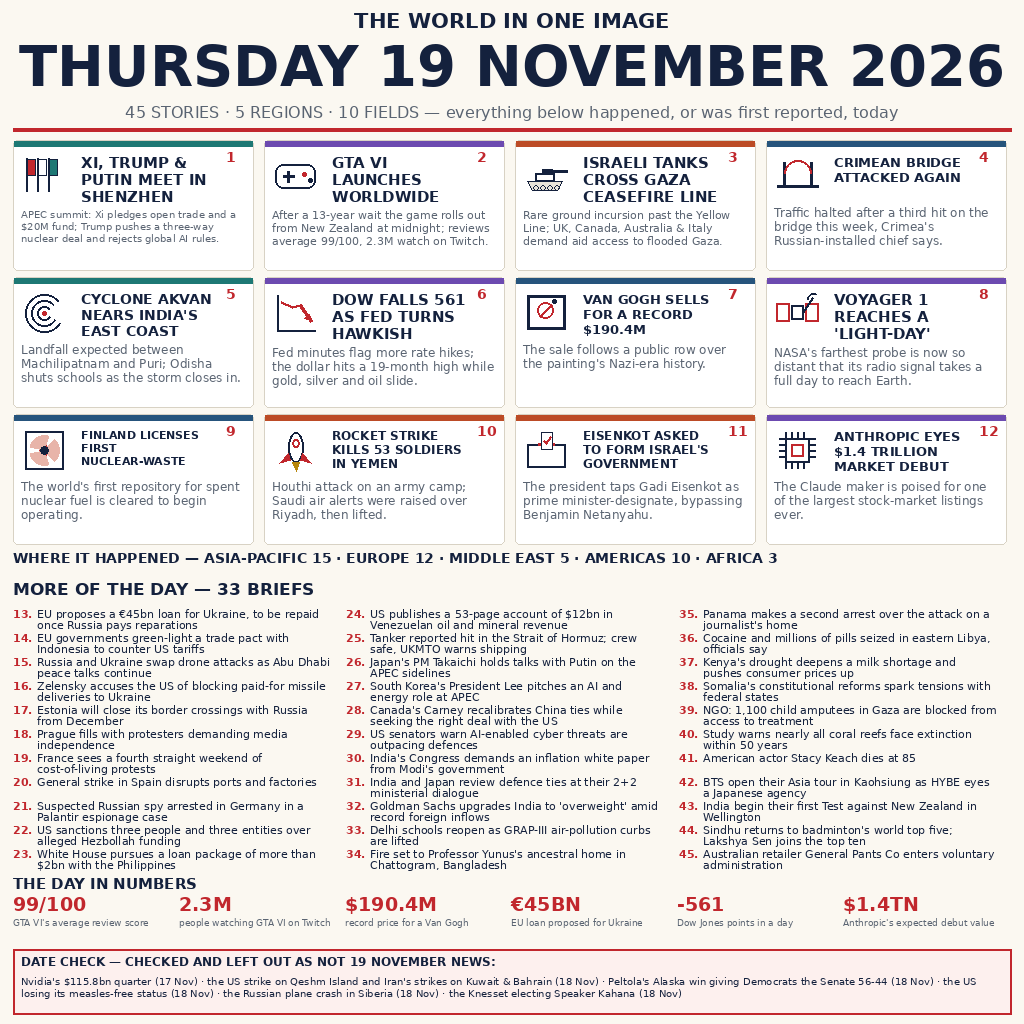
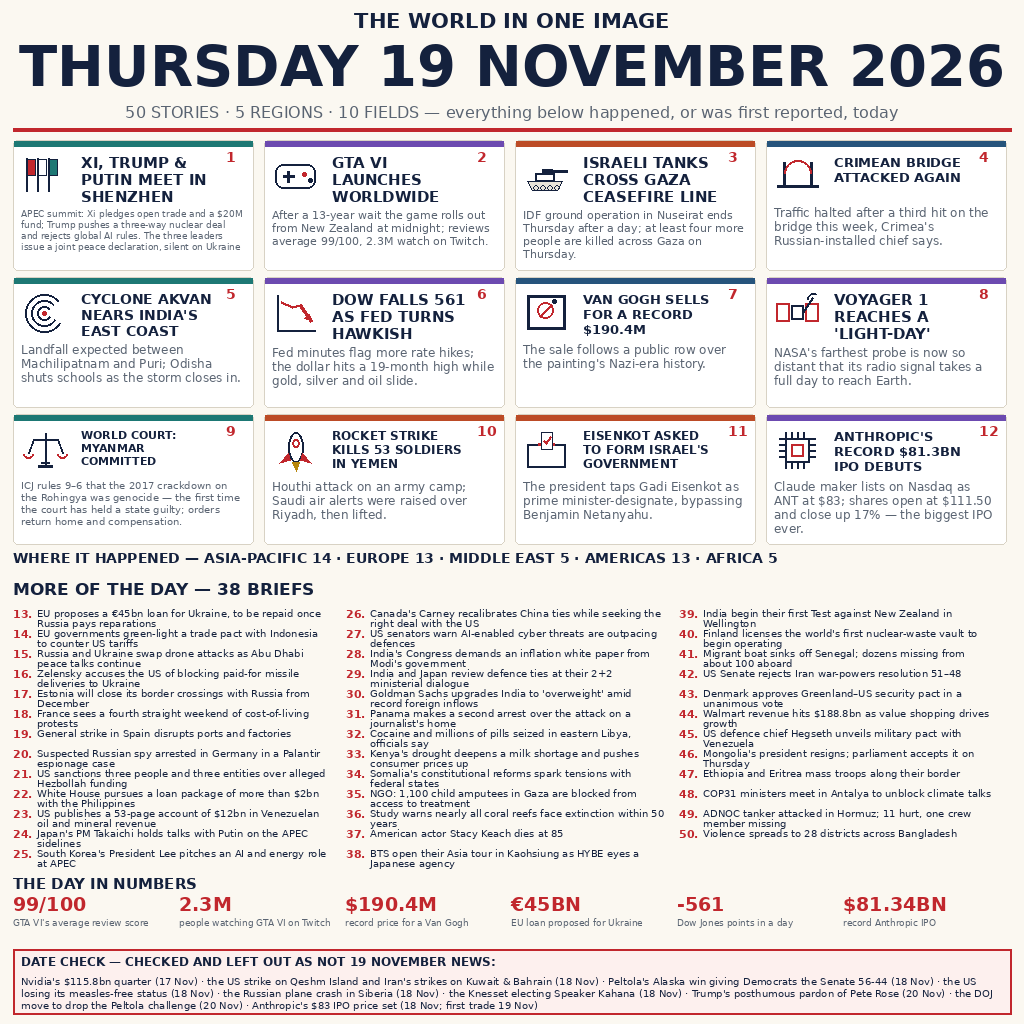
The World in One Image — Thursday 19 November 2026: 50 stories, 12 illustrated cards + 38 briefs

diff --git a/draw.py b/draw.py
@@ -79,6 +79,11 @@ def icon(kind, x, y):
         d.rectangle((x+11,y+11,x+35,y+35),outline=c,width=2); d.rectangle((x+17,y+17,x+29,y+29),outline=RED,width=2)
         for p in (15,21,27,33):
             d.line((x+p-4,y+5,x+p-4,y+11),fill=c,width=2); d.line((x+p-4,y+35,x+p-4,y+41),fill=c,width=2); d.line((x+5,y+p-4,x+11,y+p-4),fill=c,width=2); d.line((x+35,y+p-4,x+41,y+p-4),fill=c,width=2)
+    elif kind == 'scales':
+        d.line((x+24,y+6,x+24,y+39),fill=c,width=2); d.line((x+12,y+12,x+36,y+12),fill=c,width=2)
+        d.line((x+12,y+12,x+7,y+26),fill=c,width=2); d.line((x+36,y+12,x+41,y+26),fill=c,width=2)
+        d.arc((x+2,y+22,x+12,y+31),0,180,fill=RED,width=2); d.arc((x+36,y+22,x+46,y+31),0,180,fill=RED,width=2)
+        d.line((x+17,y+39,x+31,y+39),fill=c,width=3); d.line((x+20,y+35,x+28,y+35),fill=c,width=2)
 
 data = json.loads((ROOT/'stories.json').read_text(encoding='utf-8'))
 total = len(data['cards']) + len(data['briefs'])
@@ -106,11 +111,11 @@ for i, card in enumerate(data['cards']):
     yy=y+14
     for line in hl: d.text((x+68,yy),line,font=hf,fill=INK); yy += hf.size+2
     detail_top=max(y+65, yy+3)
-    df, dl = fit_lines(card['detail'],12,False,cw-16,3,10)
+    df, dl = fit_lines(card['detail'],12,False,cw-16,4,9)
     line_h=df.size+2
     while len(dl)*line_h > y+ch-7-detail_top and df.size>9:
-        df,dl=fit_lines(card['detail'],df.size-1,False,cw-16,3,9); line_h=df.size+2
-    for line in dl[:3]: d.text((x+8,detail_top),line,font=df,fill=MUTED); detail_top += line_h
+        df,dl=fit_lines(card['detail'],df.size-1,False,cw-16,4,9); line_h=df.size+2
+    for line in dl[:4]: d.text((x+8,detail_top),line,font=df,fill=MUTED); detail_top += line_h
 
 # Region summary
 region_line = 'WHERE IT HAPPENED — ' + ' · '.join(f'{r} {regions[r]}' for r in ORDER)
@@ -127,11 +132,10 @@ for col in range(cols):
         idx=col*per+row
         if idx>=len(briefs): continue
         item=briefs[idx]; number=13+idx
-        y=607+row*24
+        y=607+row*20
         nf=font(11,True); d.text((x,y),str(number)+'.',font=nf,fill=RED)
-        tf, lines=fit_lines(item['text'],11,False,294,3,10)
-        # Keep each compact brief within its 25px row, tightening its line spacing if needed.
-        line_h=min(11,tf.size+1)
+        tf, lines=fit_lines(item['text'],10,False,294,2,9)
+        line_h=10
         for j,line in enumerate(lines[:3]): d.text((x+24,y+j*line_h),line,font=tf,fill=INK)
 
 # Numbers band
